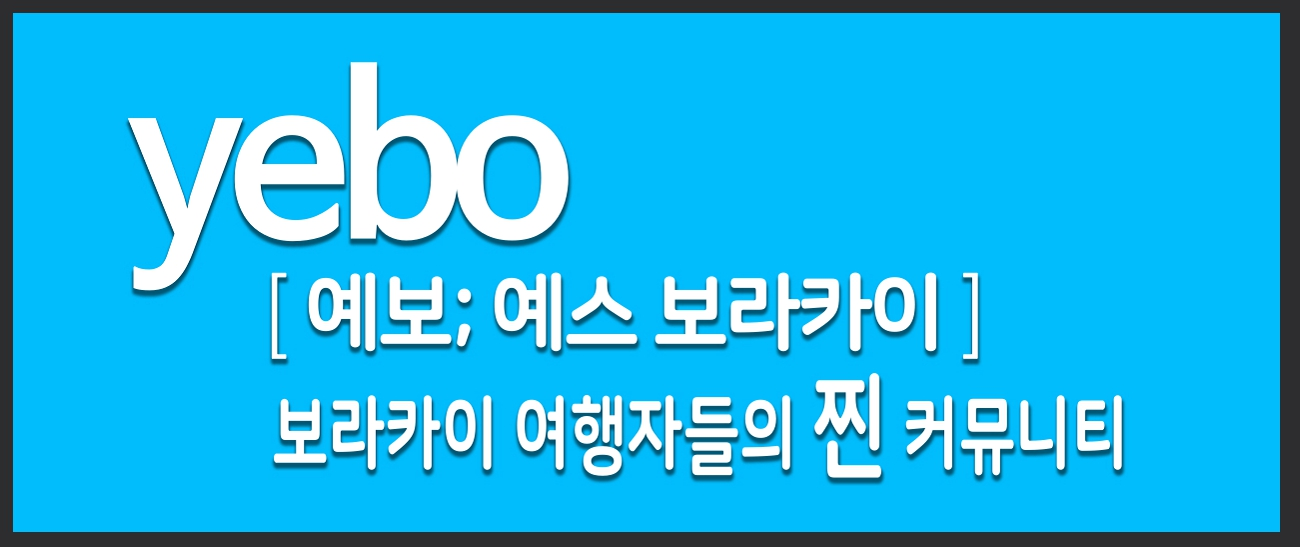
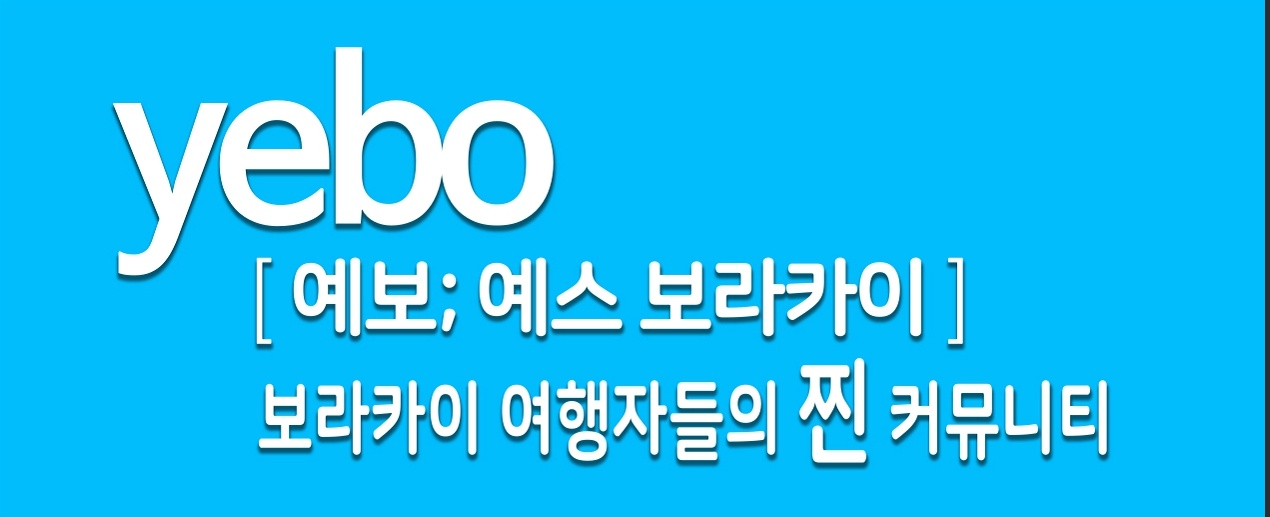
yebo: remove black border from hero image, remove dim overlay

Changed region(s): [[0.1843, 0.4952, 0.8906, 0.9284], [0.0, 0.0, 1.0, 1.0], [0.0921, 0.0928, 0.4606, 0.5571]]

diff --git a/reservationyebo.html b/reservationyebo.html
@@ -32,7 +32,7 @@ body {
 /* ── Hero ── */
 .hero {
   position: relative;
-  aspect-ratio: 1300 / 547;
+  aspect-ratio: 1270 / 517;
   overflow: hidden;
 }
 .hero img {
@@ -169,7 +169,6 @@ body {
 
 <div class="hero">
   <img src="assets/yebo-hero.jpg" alt="예린이(yebo) x 보라카이 고래상어">
-  <div class="hero-dim"></div>
   <div class="hero-label">
     <div class="tag">예린이(yebo) x 리버타드</div>
     <h1>보라카이<br><em>고래상어</em> 패스트트랙</h1>
